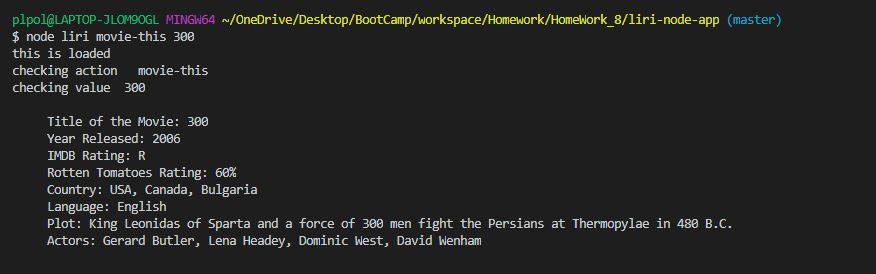
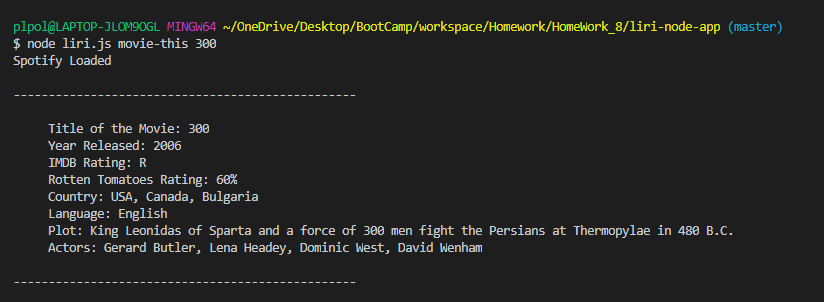
application completed

Changed region(s): [[0.0303, 0.4088, 0.8799, 0.9051], [0.0, 0.0292, 0.9405, 0.3504], [0.0303, 0.9343, 0.4248, 0.9635]]

diff --git a/liri.js b/liri.js
@@ -12,82 +12,96 @@ var moment = require("moment");
 var Spotify = require("node-spotify-api");
 var spotify = new Spotify(keys.spotify);
 
-
 var action = process.argv[2];
 var value = process.argv.slice(3).join(" ");
-//console response
-console.log("checking action  ", action);
-console.log("checking value ", value);
 
 function switchAction() {
-   switch (action) {
-      case "concert-this":
-         getBand(value);
-         break;
+  switch (action) {
+    case "concert-this":
+      getArtist(value);
+      break;
 
-      case "spotify-this-song":
-         getSong(value);
-         break;
+    case "spotify-this-song":
+      getSong(value);
+      break;
 
-      case "movie-this":
-         getMovies(value);
-         break;
+    case "movie-this":
+      getMovies(value);
+      break;
 
-      case "do-what-it-says":
-         doWhatItSays();
-         break;
+    case "do-what-it-says":
+      doWhatItSays();
+      break;
 
-      default:
-         console.log("Error: Incorrect Input");
-         break;
-   }
+    default:
+      console.log("Error: Incorrect Input");
+      break;
+  }
 }
 
-function getBand(artist) {
-   axios
-      .get(
-         "https://rest.bandsintown.com/artists/" +
-         artist +
-         "/events?app_id=codingbootcamp"
-      )
-      .then(function (response) {
-         console.log("Name of the venue: ", response.data[0].venue.name);
-         console.log("Venue location: ", response.data[0].venue.city);
-         console.log(
-            "Date of the Event: ",
-            moment(response.data[0].datetime).format("MM/DD/YYYY")
-         );
-      })
-      .catch(function (error) {
-         console.log(error);
-      });
+function getArtist(artist) {
+  if (artist === "") {
+    artist = "Justin Bieber";
+  }
+  axios
+    .get(
+      "https://rest.bandsintown.com/artists/" +
+        artist +
+        "/events?app_id=codingbootcamp"
+    )
+    .then(function(response) {
+      console.log(
+        "\n-------------------------------------------------\n" +
+          "Name of artist: ",
+        artist
+      );
+      console.log("Name of the venue: ", response.data[0].venue.name);
+      console.log(
+        "Venue location: ",
+        response.data[0].venue.city
+      );
+      console.log(
+        "Date of the Event: ",
+        moment(response.data[0].datetime).format("MM/DD/YYYY") +  "\n-------------------------------------------------\n"
+      );
+    })
+    .catch(function(error) {
+      console.log(error);
+    });
 }
 
 function getSong(songName) {
-   if (songName === "") {
-      songName = "The Sign";
-   }
+  if (songName === "") {
+    songName = "The Sign";
+  }
 
-   spotify.search({ type: "track", query: songName }, function (err, data) {
-      if (err) {
-         return console.log("Error occurred " + err);
-      }
+  spotify.search({ type: "track", query: songName }, function(err, data) {
+    if (err) {
+      return console.log("Error occurred " + err);
+    }
 
-      console.log("Artist(s): ", data.tracks.items[0].album.artists[0].name);
-      console.log("Song's name: ", process.argv.slice(3).join(" "));
-      console.log("Preview Link: ", data.tracks.items[0].preview_url);
-      console.log("Album Name: ", data.tracks.items[0].album.name);
-   });
+    console.log(
+      "\n-------------------------------------------------\n" + "Artist(s): ",
+      data.tracks.items[0].album.artists[0].name
+    );
+    console.log("Song's name: ", process.argv.slice(3).join(" "));
+    console.log("Preview Link: ", data.tracks.items[0].preview_url);
+    console.log(
+      "Album Name: ",
+      data.tracks.items[0].album.name +
+        "\n-------------------------------------------------\n"
+    );
+  });
 }
 
 function getMovies(movieName) {
-   if (movieName === " ") {
-      movieName = "Mr. Nobody";
-   }
-   axios
-      .get("http://www.omdbapi.com/?apikey=trilogy&t=" + movieName)
-      .then(function (data) {
-         var results = `
+  if (movieName === " ") {
+    movieName = "Mr. Nobody";
+  }
+  axios
+    .get("http://www.omdbapi.com/?apikey=trilogy&t=" + movieName)
+    .then(function(data) {
+      var results = `
      Title of the Movie: ${data.data.Title}
      Year Released: ${data.data.Year}
      IMDB Rating: ${data.data.Rated}
@@ -97,32 +111,34 @@ function getMovies(movieName) {
      Plot: ${data.data.Plot}
      Actors: ${data.data.Actors}
      `;
-         console.log(results);
-      })
-      .catch(function (error) {
-         console.log(error);
-      });
+      console.log( "\n-------------------------------------------------\n",
+          results, "\n-------------------------------------------------\n"
+      );
+    })
+    .catch(function(error) {
+      console.log(error);
+    });
 }
 
 function doWhatItSays() {
-   fs.readFile("random.txt", "utf8", function (err, data) {
-      data = data.split(",");
-      var action = data[0];
-      var value = data[1];
-      switch (action) {
-         case "concert-this":
-            getBands(value);
-            break;
-         case "spotify-this-song":
-            getSongs(value);
-            break;
-         case "movie-this":
-            getMovies(value);
-            break;
-         default:
-            break;
-      }
-   });
+  fs.readFile("random.txt", "utf8", function(err, data) {
+    data = data.split(",");
+    var action = data[0];
+    var value = data[1];
+    switch (action) {
+      case "concert-this":
+        getArtist(value);
+        break;
+      case "spotify-this-song":
+        getSongs(value);
+        break;
+      case "movie-this":
+        getMovies(value);
+        break;
+      default:
+        break;
+    }
+  });
 }
 
 switchAction();

diff --git a/README.md b/README.md
@@ -7,21 +7,21 @@ The data that Liri will provide back is related to three different catergories.
 
 ## What type of searches does Liri perform 
 
+## Search for artist/band
 
-
-
-
-## Search for band
-
-
+- To inialize a song search the user must type in the following command in the terminal 'node liri spotify-this-song "title-of-song"'.
+        Please note that "spotify-this-song" is highly important as it allows the application to identify that search the user is tring to execute is a search for a song. 
+  
         -- The following responses are expected to be returned upon a successful song search. 
  
                 * Name of the venue
                 * Venue location
                 * Date of the Event (use moment to format this as "MM/DD/YYYY")
-
+                
+ <img src="assets/images/spotify-concert-search.PNG">
 
 ## Search for song
+
 - To inialize a song search the user must type in the following command in the terminal 'node liri spotify-this-song "title-of-song"'.
         Please note that "spotify-this-song" is highly important as it allows the application to identify that search the user is tring to execute is a search for a song. 
   
@@ -36,7 +36,7 @@ The data that Liri will provide back is related to three different catergories.
 
 ## Search for movie 
 
-    - To inialize a movie search the user must type in the following command in the terminal 'node liri movie-this "title-of-movie"'.
+- To inialize a movie search the user must type in the following command in the terminal 'node liri movie-this "title-of-movie"'.
         Please note that "movie-this" is highly important as it allows the application to identify that search the user is tring to execute is a search for a movie.
  
         -- The following responses are expected to be returned upon a successful movie search. 
@@ -50,13 +50,14 @@ The data that Liri will provide back is related to three different catergories.
                 * Plot of the movie.
                 * Actors in the movie.
 
-
   <img src="assets/images/movie-search.png">
 
 
   ## Default search if no input is found
 
-  If no song is provided then your program will default to "The Sign" by Ace of Base.
-  If the user doesn't type a movie in, the program will output data for the movie 'Mr. Nobody.'
+  * Defaulted value if no artist/band is provided "Ozuna".
+  * Defaulted value if no song is provided "The Sign" by Ace of Base.
+  * Defaulted value if no movie is provided "The Sign" by Ace of Base.'Mr. Nobody.'
+
 
   Thank you for viewing my LIRI-NODE-APP for any question please feel to visit my website <a href="https://tomaszchylinski.github.io/chylinski-tomasz-portfolio/contact.html"></a>
